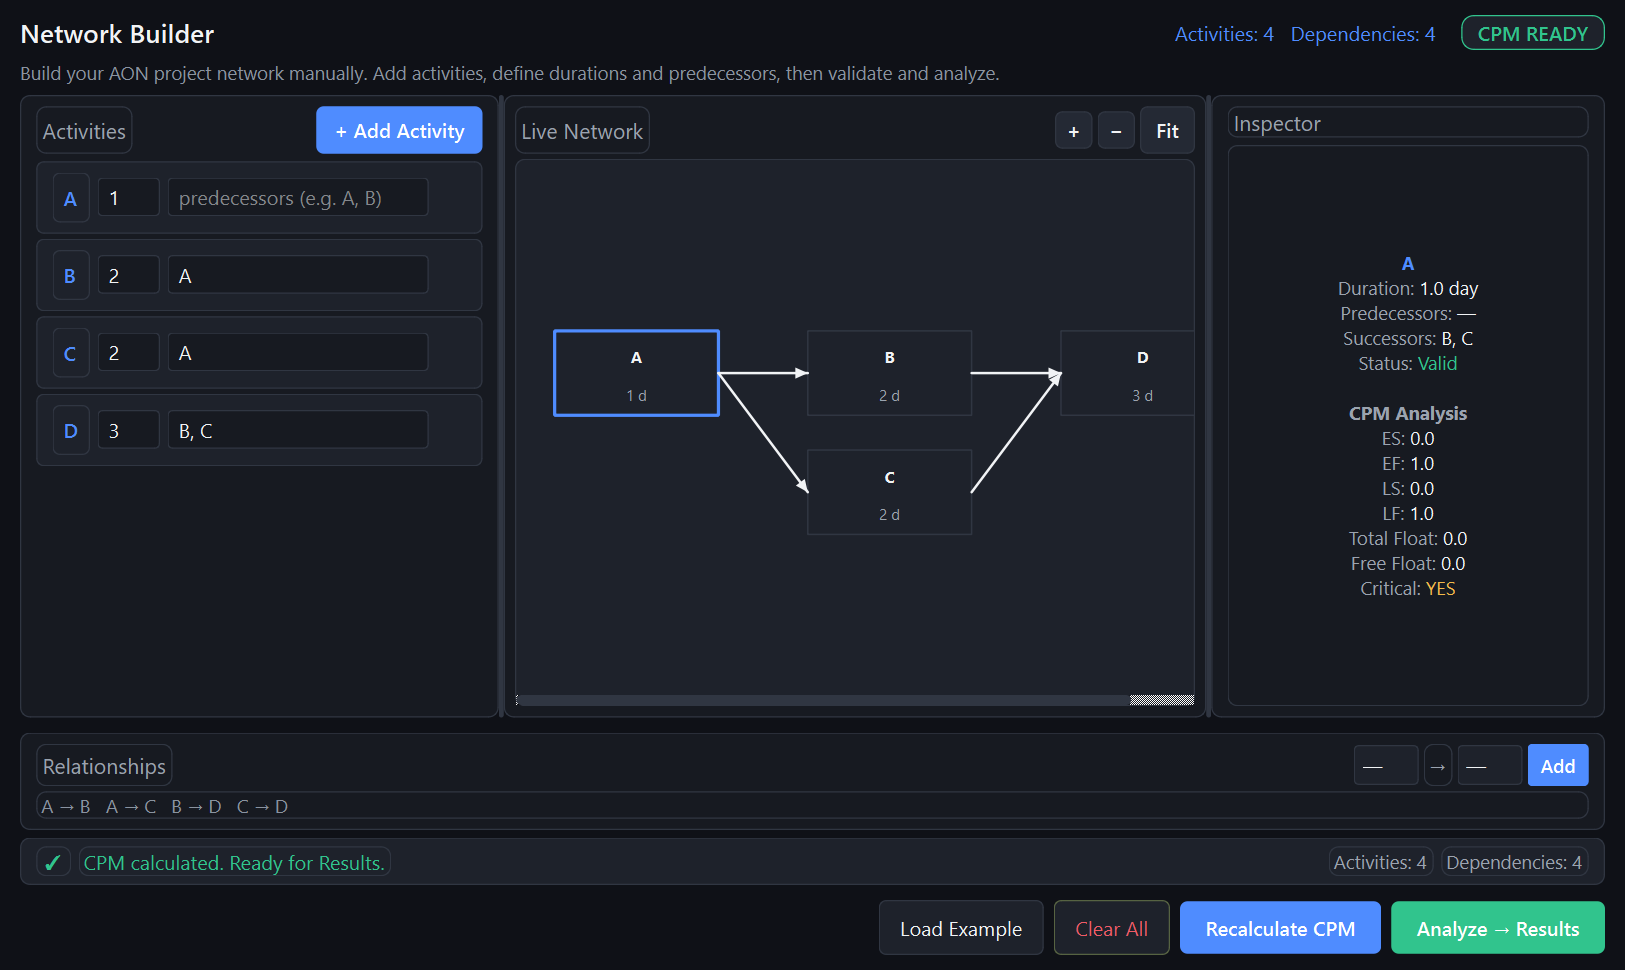
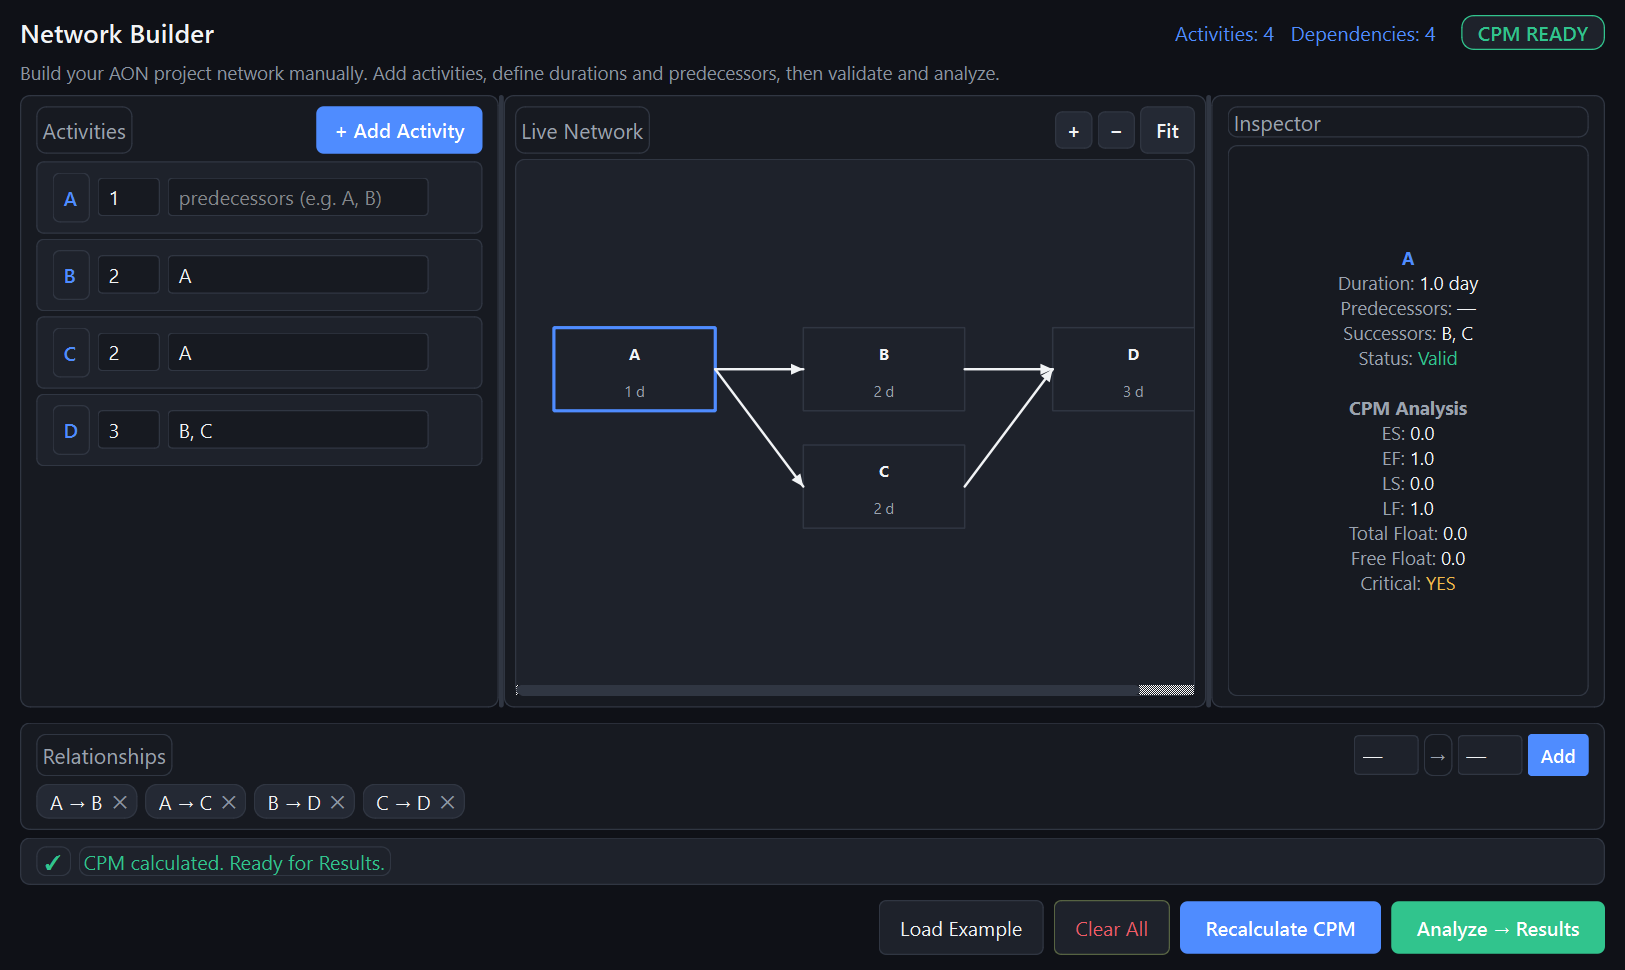
batch B-2: relationships become deletable chips; counters appear once
- relationships bar renders interactive chips (A -> B x) with a direct
  delete action on each chip (same remove_relationship path as the
  inspector); the plain row becomes the empty hint / fallback again
- chip remove glyph sizes safely: padding/min-height 0 counters the
  global button box model that clipped tiny buttons in B-1
- status-bar Activities/Dependencies counters are hidden but stay live
  (header is their single home), so the same two numbers no longer show
  twice in one line

diff --git a/pert_analyzer/gui/pages/network_builder_page.py b/pert_analyzer/gui/pages/network_builder_page.py
@@ -415,6 +415,18 @@ class NetworkBuilderPage(QWidget):
         self._rel_list_label.setWordWrap(True)
         rel_layout.addWidget(self._rel_list_label)
 
+        # Interactive chips row: one chip per relationship, each with its
+        # own remove action (the plain-text row above stays as the empty
+        # hint and a fallback).
+        self._rel_chips_area = QWidget()
+        self._rel_chips_area.setStyleSheet("background: transparent;")
+        self._rel_chips_layout = QHBoxLayout(self._rel_chips_area)
+        self._rel_chips_layout.setContentsMargins(0, 2, 0, 0)
+        self._rel_chips_layout.setSpacing(6)
+        self._rel_chips_layout.addStretch()
+        self._rel_chips_area.hide()
+        rel_layout.addWidget(self._rel_chips_area)
+
         layout.addWidget(rel_frame)
 
         # Status bar
@@ -446,6 +458,12 @@ class NetworkBuilderPage(QWidget):
         self._deps_count_label.setFont(QFont(*MUTED_FONT))
         self._deps_count_label.setStyleSheet(f"color: {TEXT_SECONDARY};")
         sb_layout.addWidget(self._deps_count_label)
+
+        # The header already shows both counts; these stay updated for
+        # programmatic access but out of the row, so the same two numbers
+        # don't appear twice in one line.
+        self._acts_count_label.hide()
+        self._deps_count_label.hide()
 
         layout.addWidget(status_bar)
 
@@ -861,11 +879,61 @@ class NetworkBuilderPage(QWidget):
 
     def _update_relationships_display(self) -> None:
         rels = self._model.get_all_relationships()
+        # Clear the chips row (the trailing stretch stays in place).
+        while self._rel_chips_layout.count() > 1:
+            item = self._rel_chips_layout.takeAt(0)
+            w = item.widget()
+            if w is not None:
+                w.setParent(None)
+                w.deleteLater()
         if not rels:
             self._rel_list_label.setText("No relationships defined.")
+            self._rel_list_label.show()
+            self._rel_chips_area.hide()
         else:
-            texts = [f"{r.source} \u2192 {r.target}" for r in rels]
-            self._rel_list_label.setText("   ".join(texts))
+            for index, rel in enumerate(rels):
+                self._rel_chips_layout.insertWidget(index, self._make_relationship_chip(rel))
+            self._rel_list_label.hide()
+            self._rel_chips_area.show()
+
+    def _make_relationship_chip(self, rel) -> QWidget:
+        """One removable "A → B ✕" chip for the relationships bar."""
+        frame = QFrame()
+        frame.setFrameShape(QFrame.Shape.NoFrame)
+        frame.setStyleSheet(
+            f"QFrame {{ background: {ELEVATED}; border: 1px solid {BORDER};"
+            f" border-radius: 10px; }}"
+            f"QFrame:hover {{ border: 1px solid {ACCENT}; }}"
+        )
+        chip_layout = QHBoxLayout(frame)
+        chip_layout.setContentsMargins(10, 2, 4, 2)
+        chip_layout.setSpacing(4)
+
+        text = QLabel(f"{rel.source} \u2192 {rel.target}")
+        text.setFont(QFont(*STATUS_FONT))
+        text.setStyleSheet(
+            f"color: {TEXT}; background: transparent; border: none;"
+        )
+        chip_layout.addWidget(text)
+
+        remove_btn = QPushButton("\u2715")
+        remove_btn.setFixedSize(18, 18)
+        remove_btn.setFont(QFont(*MUTED_FONT))
+        # padding/min-height: 0 counters the global button box model, which
+        # would otherwise clip the glyph inside this tiny control.
+        remove_btn.setStyleSheet(
+            f"QPushButton {{ background: transparent; color: {TEXT_MUTED};"
+            f" border: none; border-radius: 9px; padding: 0px;"
+            f" min-height: 0px; }}"
+            f"QPushButton:hover {{ background: {DANGER}33; color: {DANGER}; }}"
+        )
+        remove_btn.clicked.connect(
+            lambda checked=False, s=rel.source, t=rel.target:
+                self._on_delete_relationship(s, t)
+        )
+        chip_layout.addWidget(remove_btn)
+
+        return frame
 
     def _update_inspector_activity(self, activity_id: str) -> None:
         entry = self._model.get_activity(activity_id)
